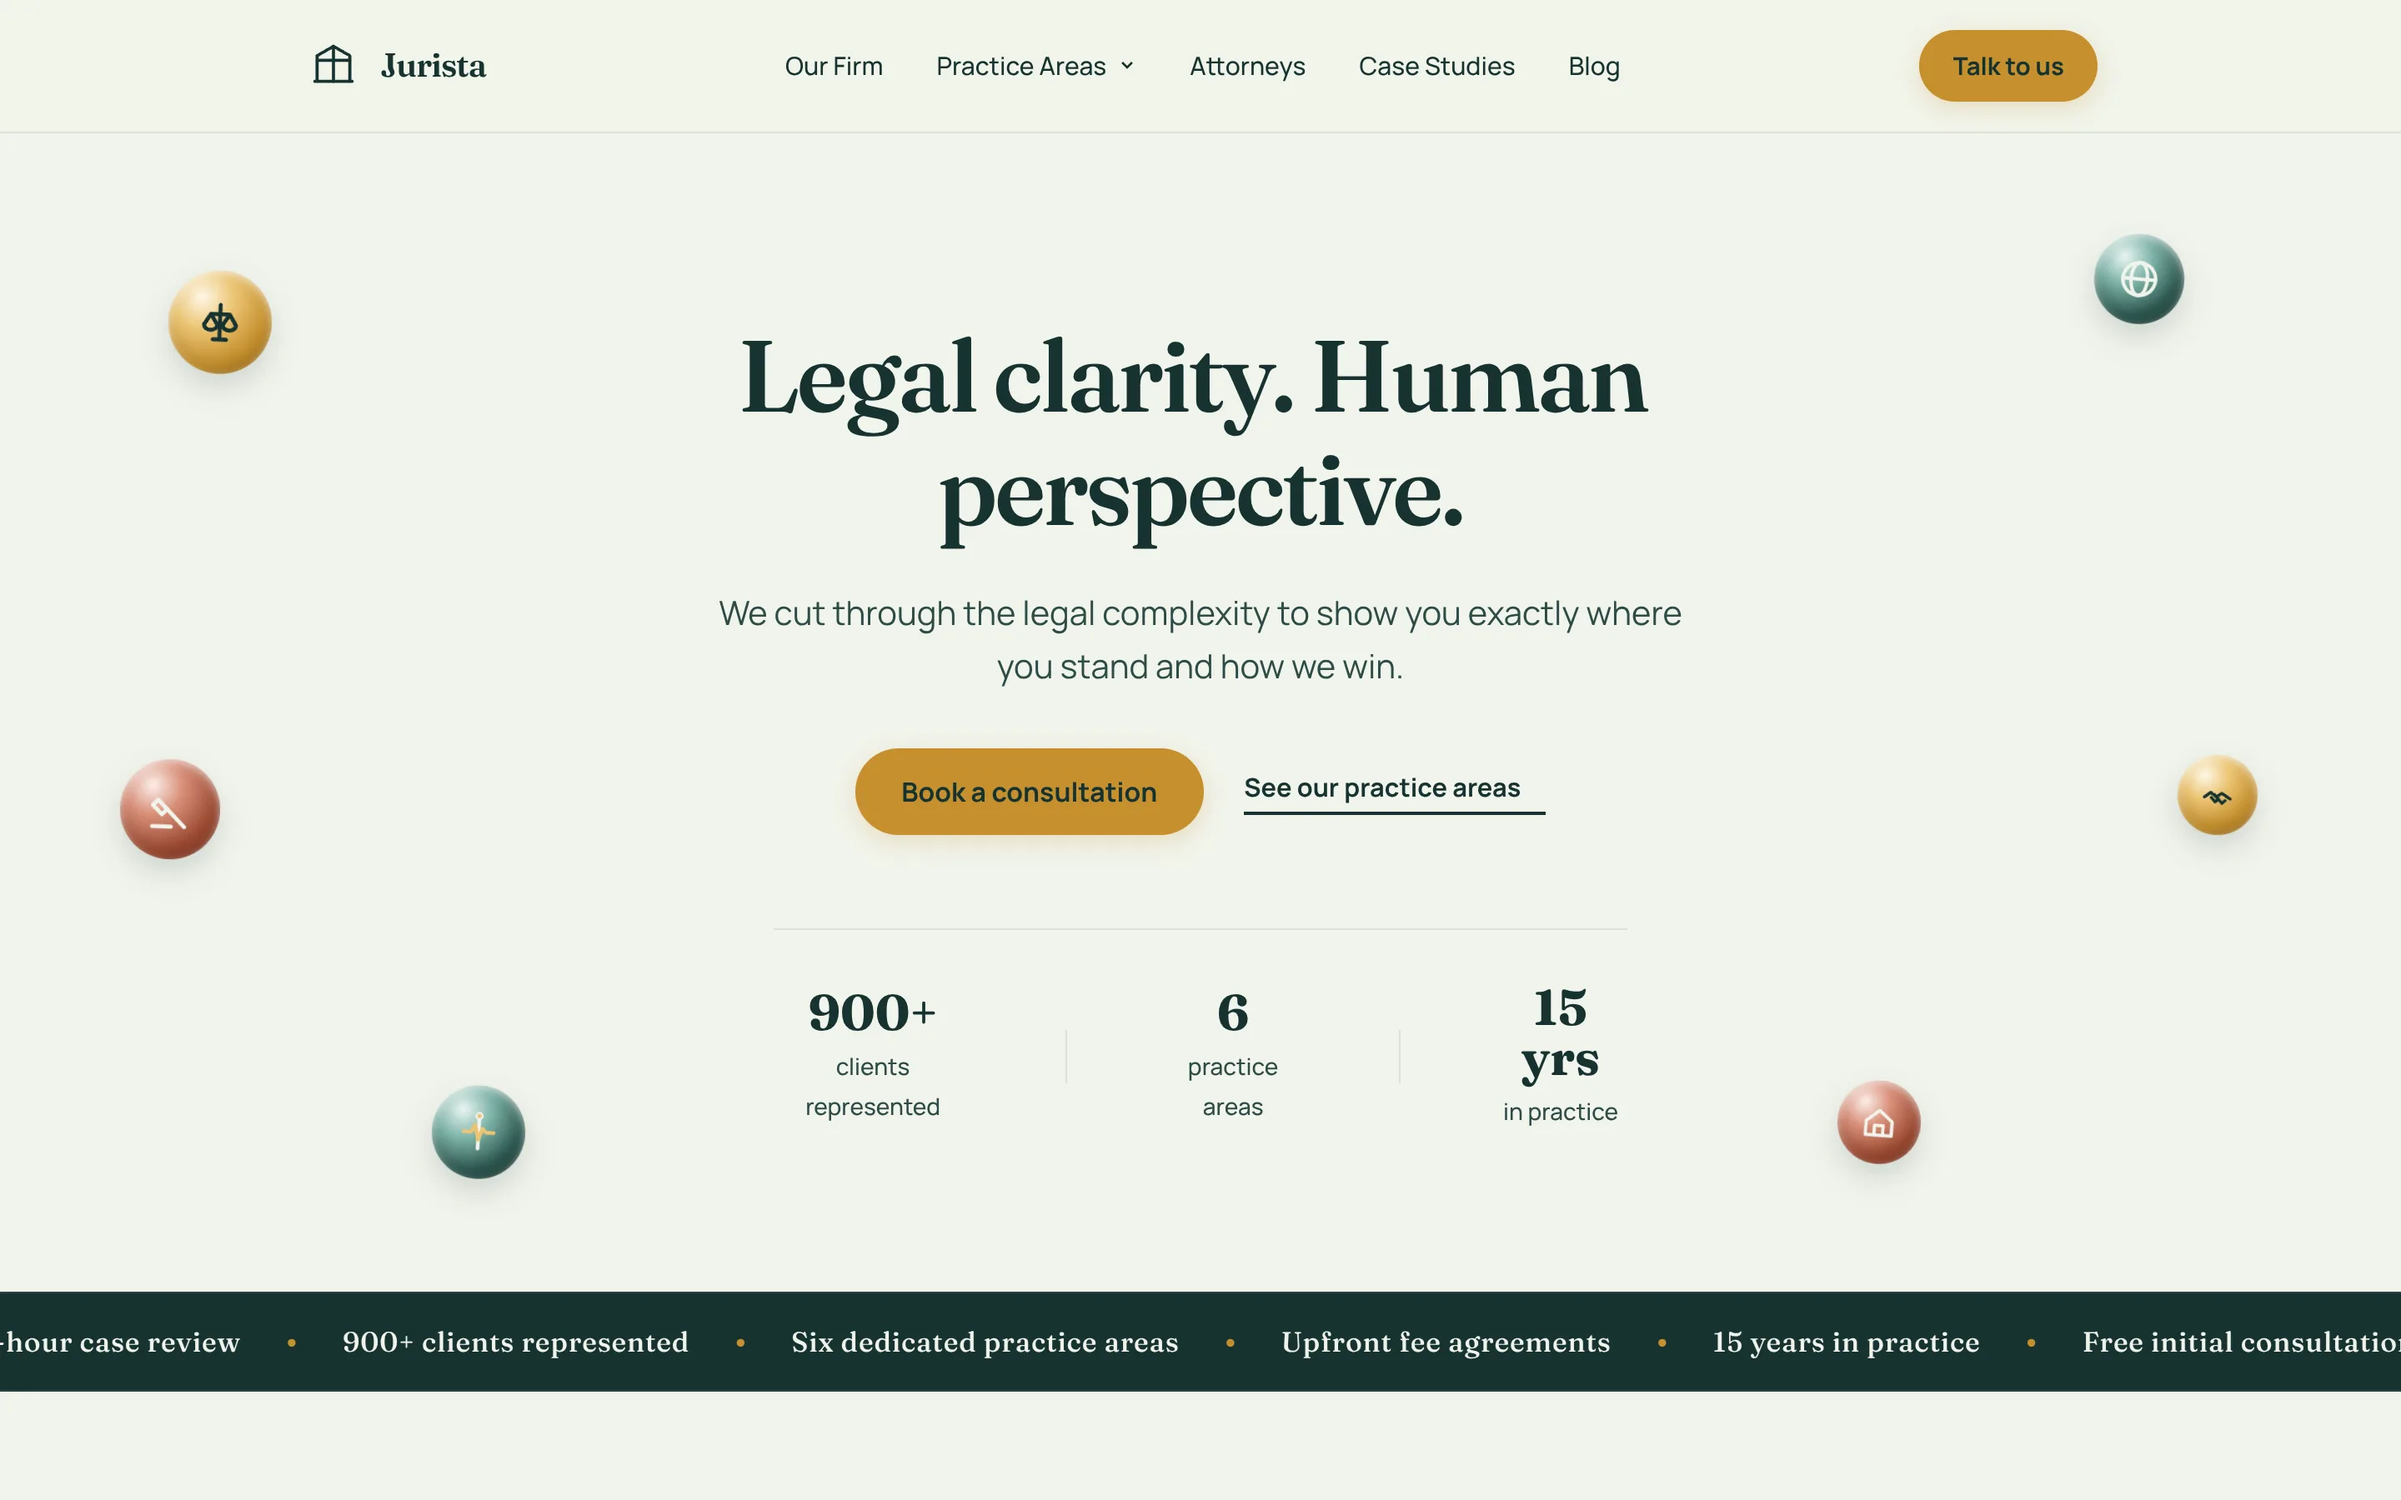
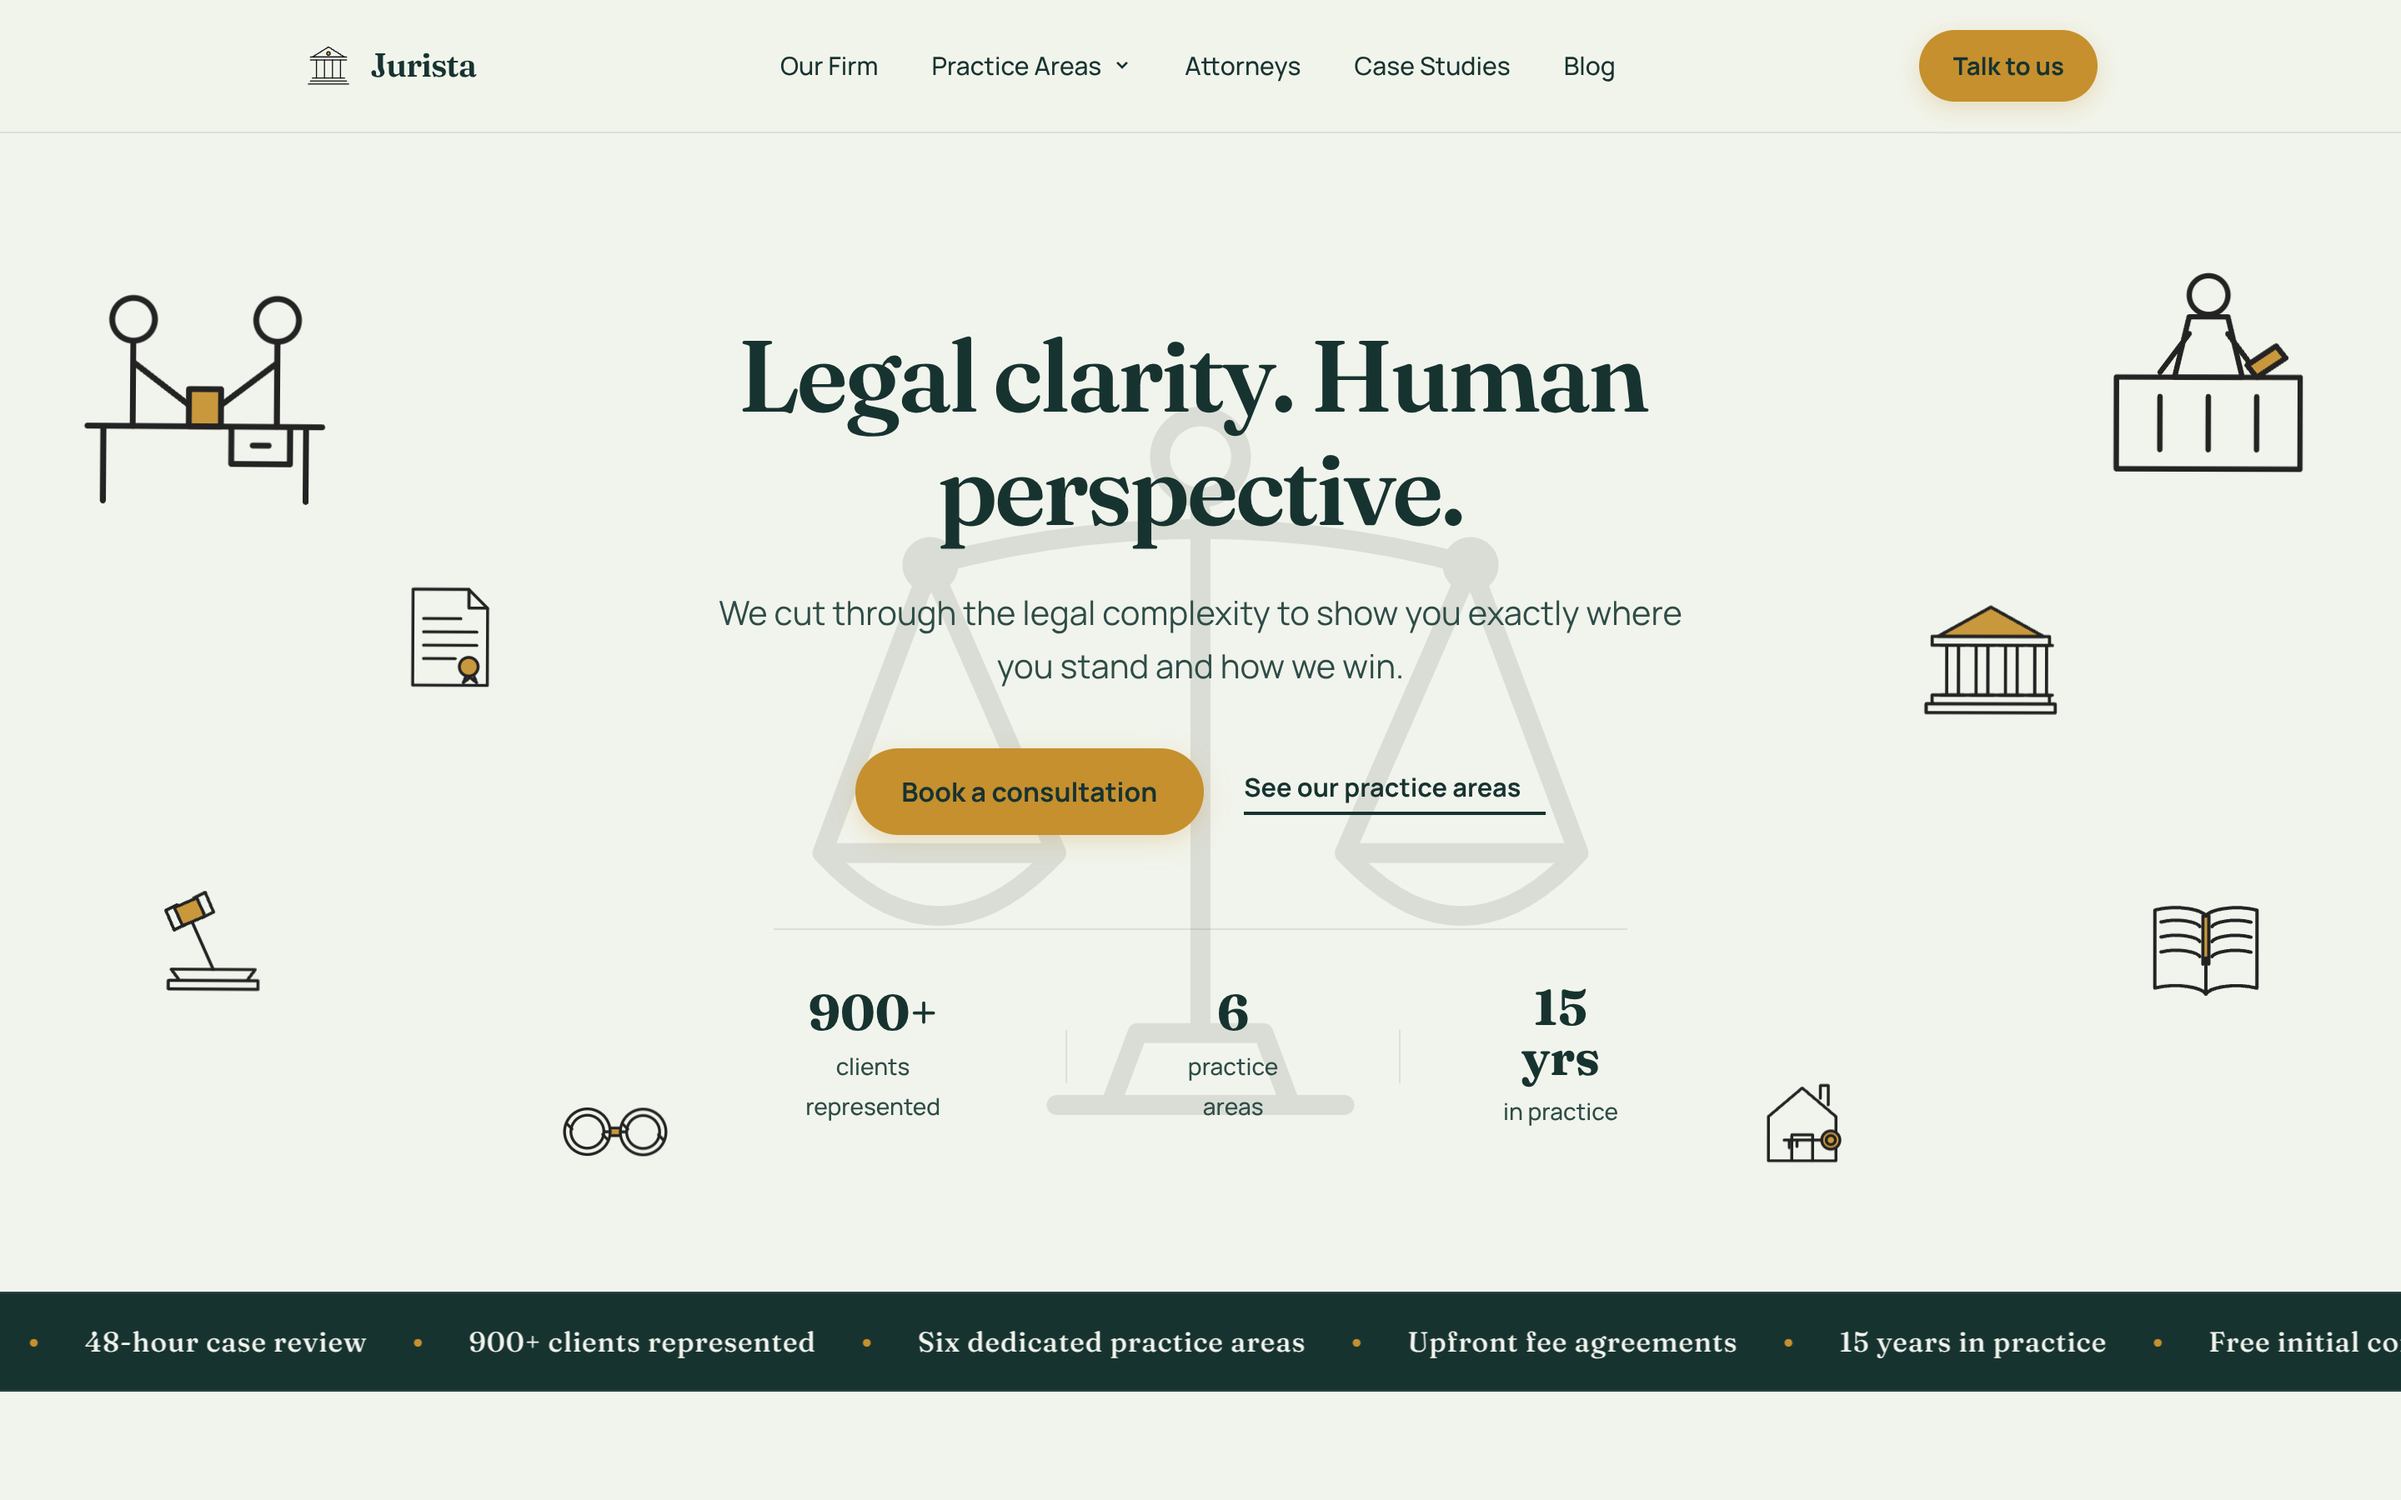
chore: update jurista assets

diff --git a/src/lib/contentStore.ts b/src/lib/contentStore.ts
@@ -50,7 +50,7 @@ export type SiteContent = {
 import { ASSETS } from "@/lib/assets";
 
 // Version number - increment this when you want to force update all users' cached content
-const CONTENT_VERSION = 38;
+const CONTENT_VERSION = 39;
 
 export const defaultContent: SiteContent = {
   about: {
